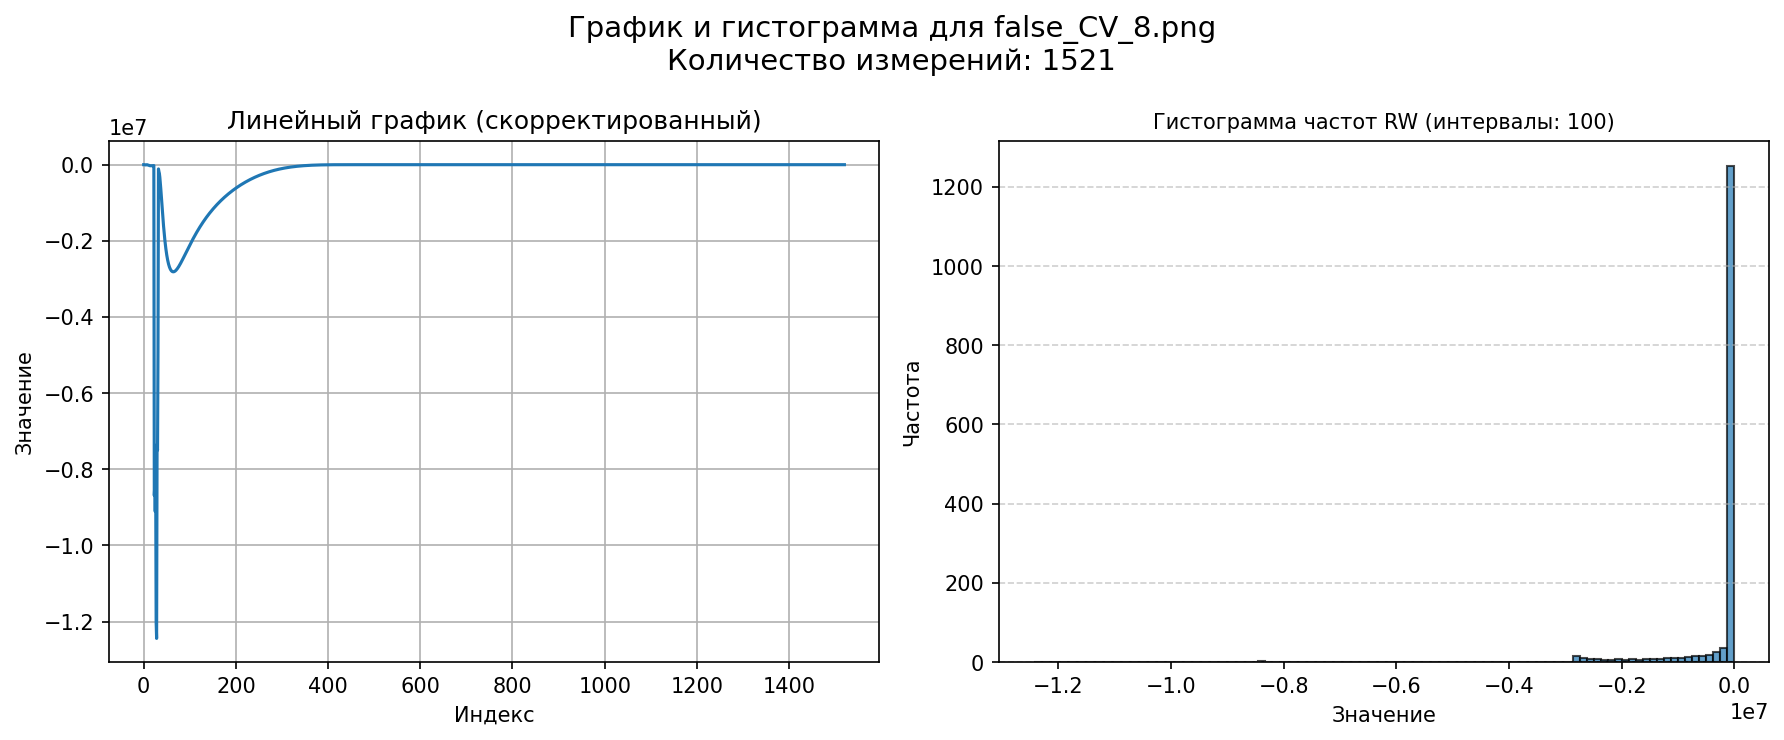
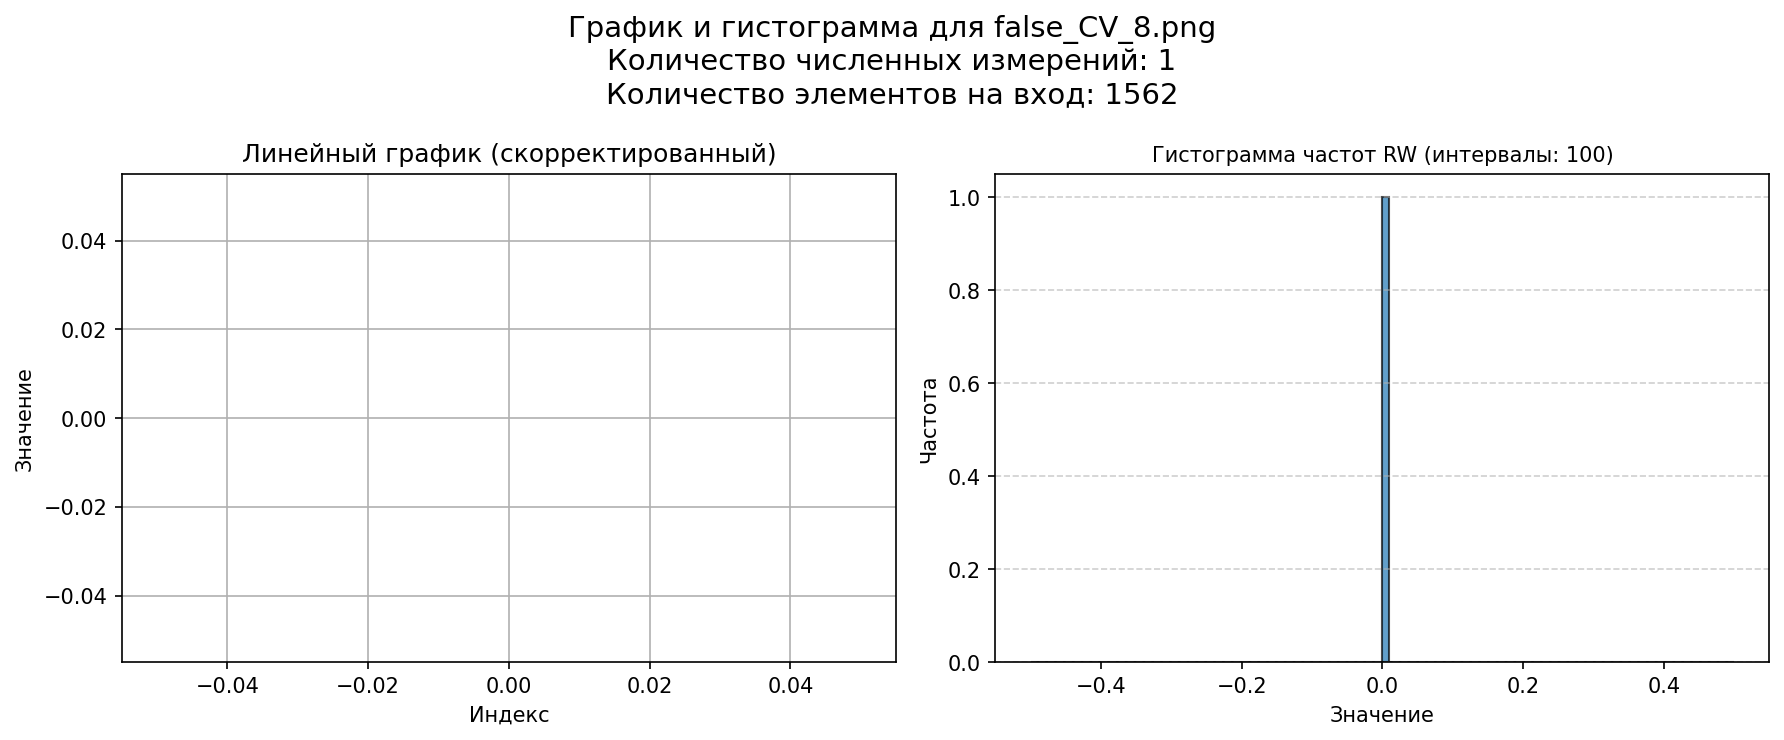
Опыты

diff --git a/app/измерения/collect_valid_and_invalid_point.py b/app/измерения/collect_valid_and_invalid_point.py
@@ -16,32 +16,30 @@ if __name__ == '__main__':
     df = processor.load_csv(data_path)
     list_valid_df, list_invalid_df = processor.parse_intervals(df, 1000000, 1000000)
     
-    valid_counts = []
-    for i, v_df in enumerate(list_invalid_df):
-        count = v_df[['lon', 'lat']].notna().all(axis=1).sum()
-        start_lon = v_df['lon'].iloc[0]
-        end_lon = v_df['lon'].iloc[-1]
-        start_lat = v_df['lat'].iloc[0]
-        end_lat = v_df['lat'].iloc[-1]
-        dist = CalculatorDistancesLengthLargeCircle.vectorized_segment_distances(
-            lat_array=np.array([start_lat, end_lat]),
-            lon_array=np.array([start_lon, end_lon]),
-        )
-        if dist < 5000:
-            continue
-        valid_counts.append((i, count))
-
-    top_10 = sorted(valid_counts, key=lambda x: x[1], reverse=True)[10:20]
-    print("Топ 10 индексов DataFrame с наибольшим количеством непустых lon и lat:")
-    for idx, count in top_10:
-        print(f"Индекс {idx}: {count} записей")
+    # valid_counts = []
+    # for i, v_df in enumerate(list_invalid_df):
+    #     count = v_df[['lon', 'lat']].notna().all(axis=1).sum()
+    #     start_lon = v_df['lon'].iloc[0]
+    #     end_lon = v_df['lon'].iloc[-1]
+    #     start_lat = v_df['lat'].iloc[0]
+    #     end_lat = v_df['lat'].iloc[-1]
+    #     dist = CalculatorDistancesLengthLargeCircle.vectorized_segment_distances(
+    #         lat_array=np.array([start_lat, end_lat]),
+    #         lon_array=np.array([start_lon, end_lon]),
+    #     )
+    #     if dist < 5000:
+    #         continue
+    #     valid_counts.append((i, count))
+    #
+    # top_10 = sorted(valid_counts, key=lambda x: x[1], reverse=True)[10:20]
+    # print("Топ 10 индексов DataFrame с наибольшим количеством непустых lon и lat:")
+    # for idx, count in top_10:
+    #     print(f"Индекс {idx}: {count} записей")
 
 
     valid_index = 379, 174, 166, 411, 167, 371, 348, 421
     invalid_index = 85, 2844, 1474, 2521, 3260, 3231, 1051, 2083, 1798, 1289, 1720, 1115, 3279
-    index = 2, 5, 13, 16
-    index = 118
-    index = 1720
+    index = 3279
 
     df = list_invalid_df[index]
 
@@ -51,11 +49,10 @@ if __name__ == '__main__':
     IOPs_geojson.write_geojson_from_arrays(path, [[time, lat, lon]])
 
     x, y = processor.convert_to_local_cartesian(lon, lat)
-    time = time.to_numpy()
 
     kf = KalmanFilterRW(sigma_acc=0.0001 * 0.04, sigma_meas=1 * 2.4)
 
-    path_true = project_root / 'false_RW_15.png'
+    path_true = project_root / 'false_RW_13.png'
     _, _, likelihood = kf.filter(x, y, time)
     likelihood = likelihood.tolist()
     DataProcessor.plot_array_and_hist(likelihood, bins=100, save_path=path_true)
@@ -68,7 +65,7 @@ if __name__ == '__main__':
 
     kf = KalmanFilterCV(sigma_acc=0.0001 * 0.04, sigma_meas=1 * 2.4)
 
-    path_true = project_root / 'false_CV_15.png'
+    path_true = project_root / 'false_CV_13.png'
     _, _, likelihood = kf.filter(x, y, time)
     likelihood = likelihood.tolist()
     DataProcessor.plot_array_and_hist(likelihood, bins=100, save_path=path_true)

diff --git a/app/working/data_processor.py b/app/working/data_processor.py
@@ -181,7 +181,8 @@ class DataProcessor:
         # --- СОЗДАНИЕ ГРАФИКОВ ---
         fig, (ax1, ax2) = plt.subplots(1, 2, figsize=(12, 5))
         fig.suptitle(f'График и гистограмма для {save_path.name if save_path else "данных"}\n'
-                     f'Количество измерений: {len(clean_arr)}', fontsize=14)
+                     f'Количество численных измерений: {len(clean_arr)}\n'
+                     f'Количество элементов на вход: {len(arr)}', fontsize=14)
 
         # --- Первый сабплот: Линейный график (из скорректированных данных) ---
         ax1.plot(clean_arr, linewidth=1.5)
